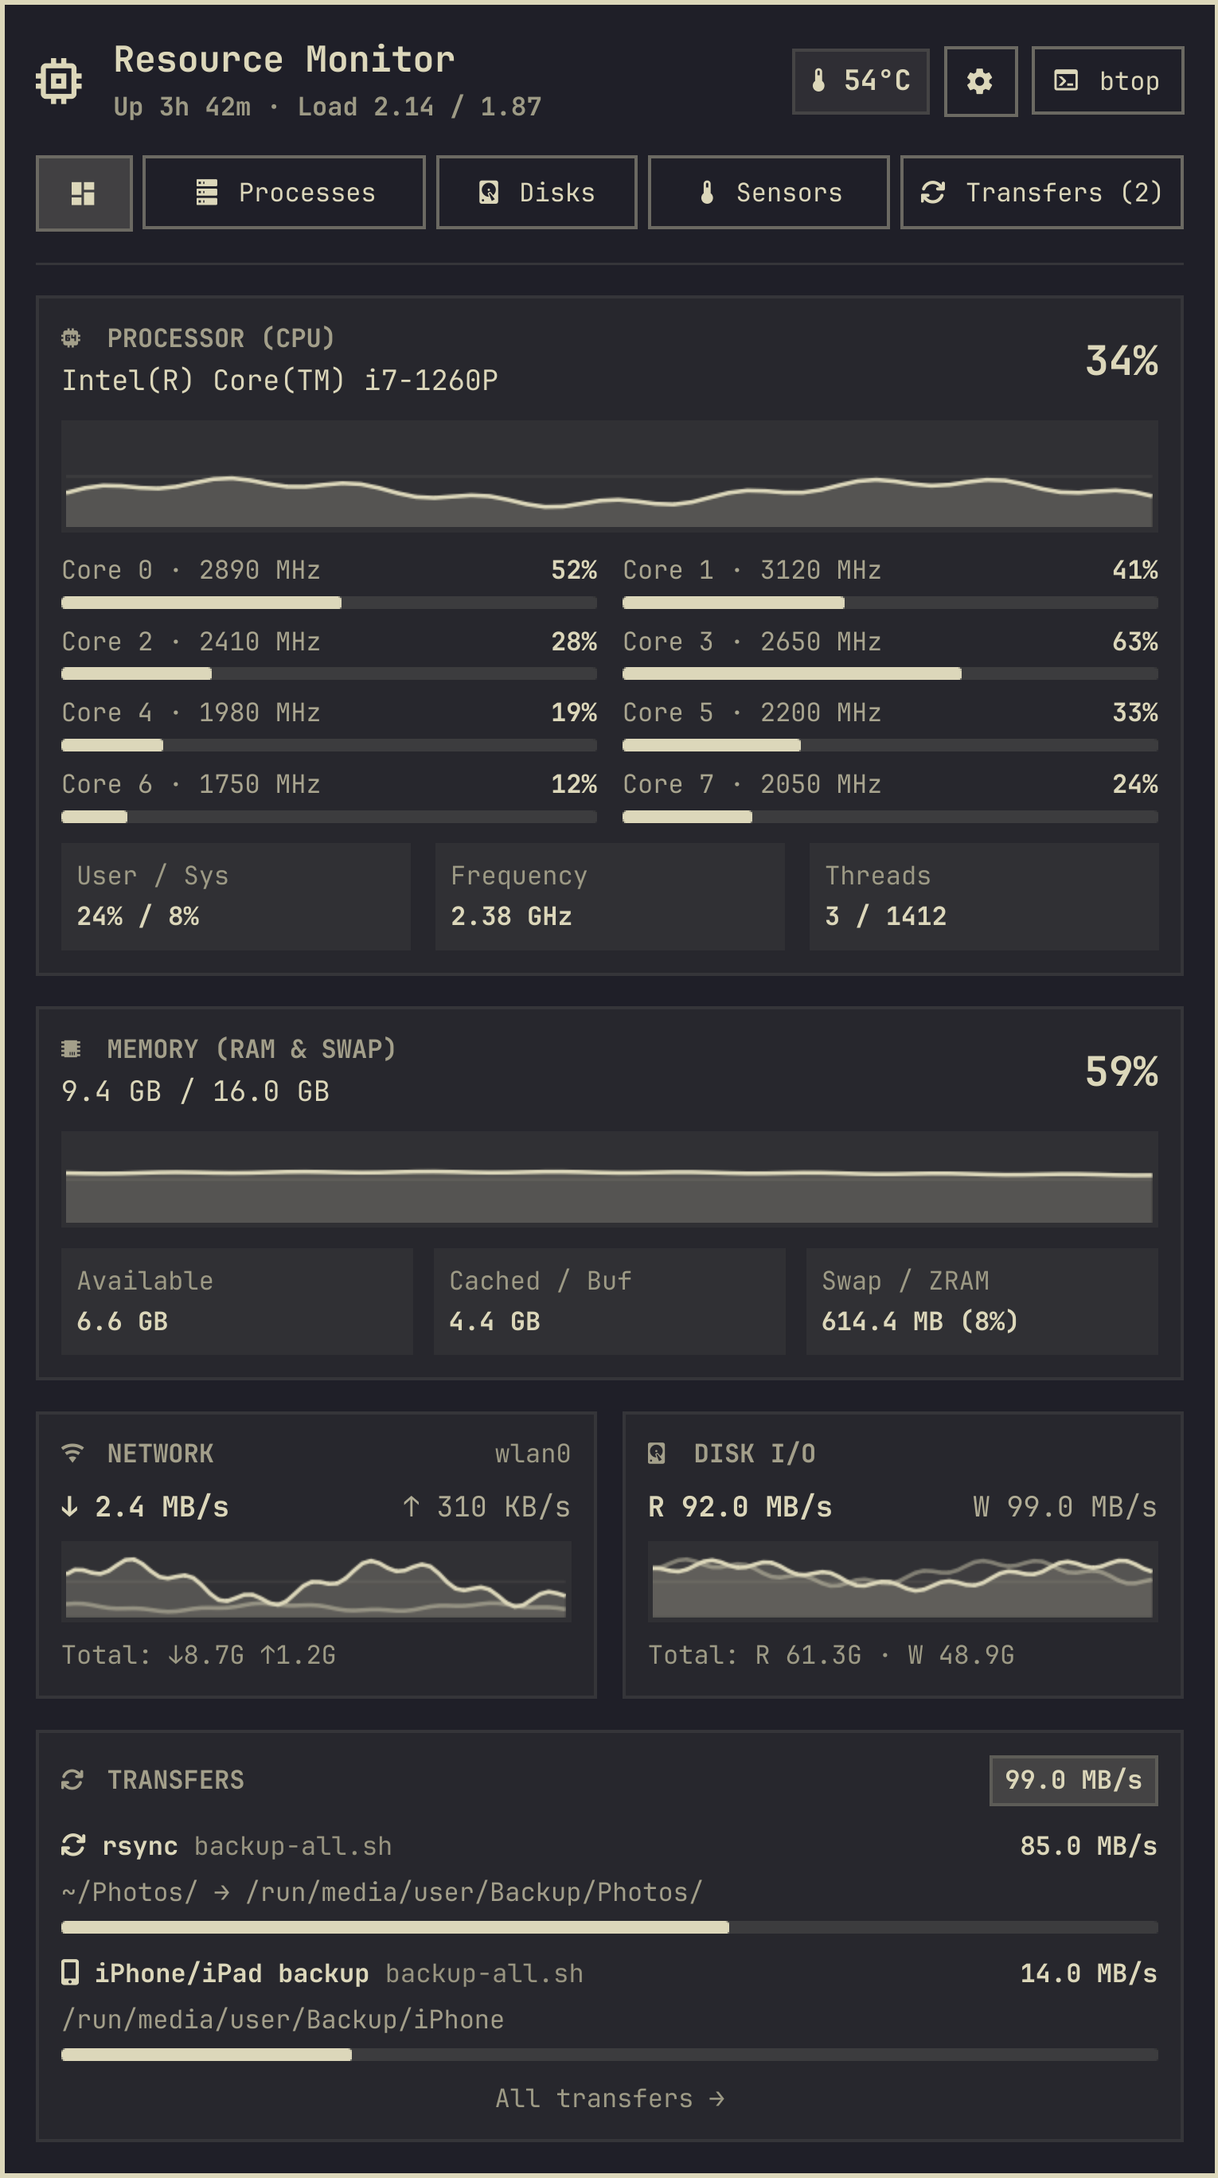
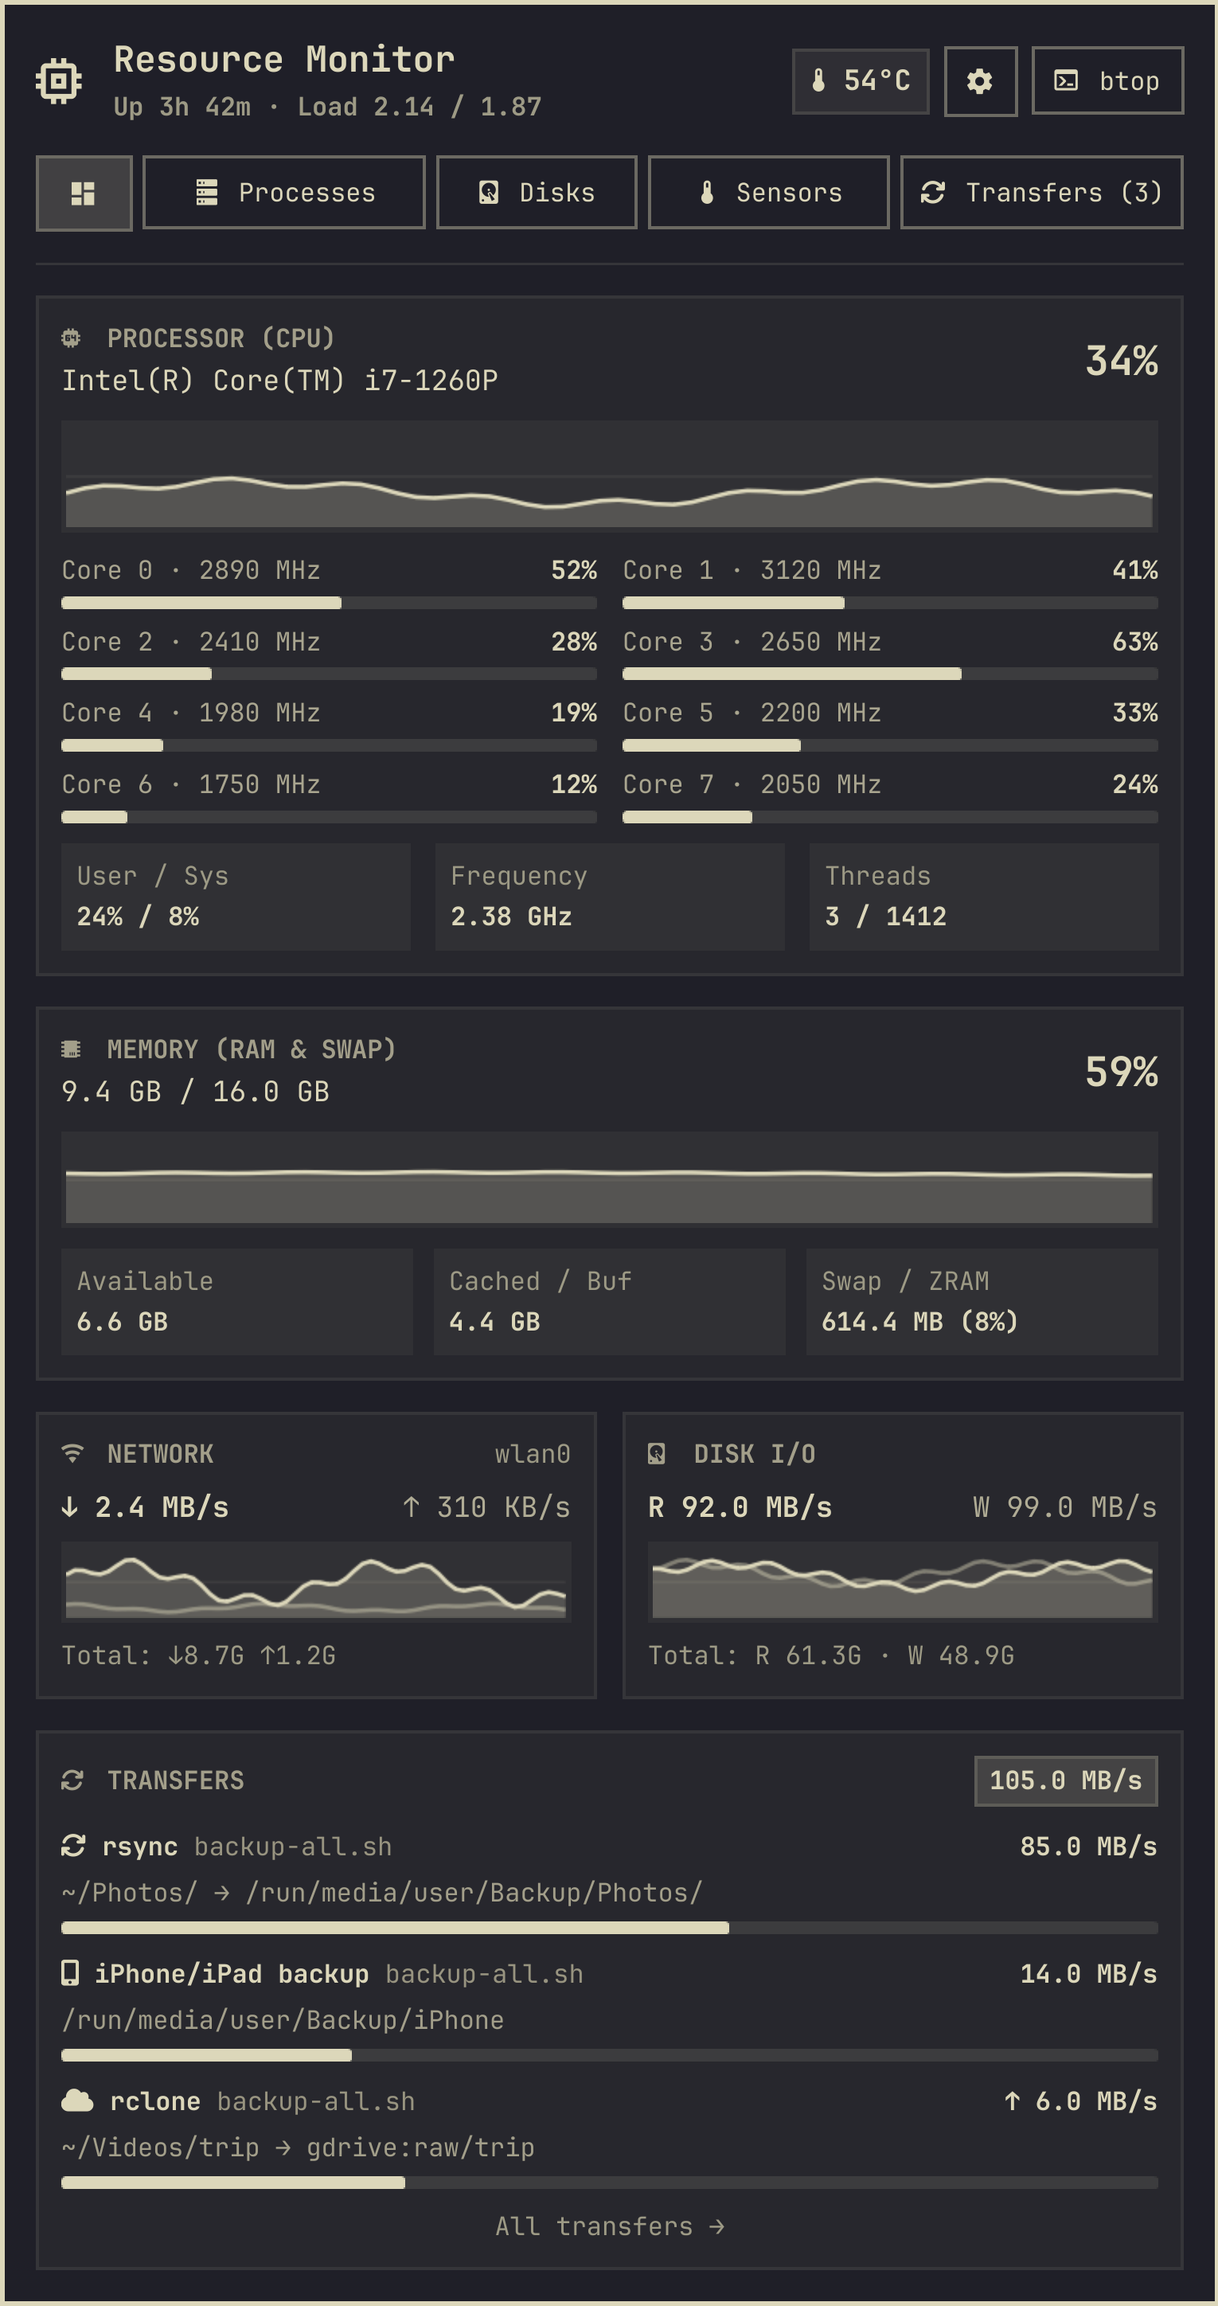
Transfers: show uploads and downloads (rclone to a remote, rsync/scp to a host)
- rclone was never listed: the mount/config filter looked for "rc" anywhere in
  the command line, which "rclone" itself contains. Only the command word decides now.
- To or from another machine, progress comes from the local side and speed from
  the socket side (rchar/wchar), so cached files and network-bound uploads count.
- scp and sftp are watched; rclone option values are no longer taken for paths.
- Cards mark the direction with an arrow.

diff --git a/Model.js b/Model.js
@@ -550,6 +550,11 @@ function tildePath(p, home) {
   return s.indexOf(h + "/") === 0 ? "~" + s.substring(h.length) : s
 }
 
+// "↑ " for a transfer leaving this computer, "↓ " for one arriving, "" for local.
+function directionArrow(direction) {
+  return direction === "upload" ? "↑ " : direction === "download" ? "↓ " : ""
+}
+
 // The path of a transfer as the panel shows it: whole when it fits in maxLen.
 function transferPath(p, home, maxLen) {
   return shortenPath(tildePath(p, home), maxLen || 38)
@@ -573,7 +578,7 @@ if (typeof module !== "undefined" && module.exports) {
     parseDetailsOutput: parseDetailsOutput, formatBytes: formatBytes, formatShortBytes: formatShortBytes,
     formatRate: formatRate, formatShortRate: formatShortRate, formatSpeed: formatSpeed,
     formatDuration: formatDuration, translate: translate, toolIcon: toolIcon, toolDisplayTitle: toolDisplayTitle,
-    formatRecentTransfer: formatRecentTransfer, diskOpenPath: diskOpenPath, shortenPath: shortenPath, tildePath: tildePath, transferPath: transferPath,
+    formatRecentTransfer: formatRecentTransfer, diskOpenPath: diskOpenPath, shortenPath: shortenPath, tildePath: tildePath, transferPath: transferPath, directionArrow: directionArrow,
     parseJsonSafely: parseJsonSafely
   }
 }

diff --git a/dev/tests/Model.test.js b/dev/tests/Model.test.js
@@ -35,7 +35,7 @@ const {
   MAX_HISTORY, neutralizeMarkup, clamp, pushHistory, parseProcStat, parseProcMeminfo,
   parseProcLoadavg, parseProcUptime, parseProcNetDev, parseProcDiskstats, parseDetailsOutput,
   formatBytes, formatShortBytes, formatRate, formatShortRate, formatSpeed, formatDuration,
-  toolIcon, toolDisplayTitle, formatRecentTransfer, diskOpenPath, shortenPath, tildePath, transferPath, parseJsonSafely
+  toolIcon, toolDisplayTitle, formatRecentTransfer, diskOpenPath, shortenPath, tildePath, transferPath, directionArrow, parseJsonSafely
 } = mod.exports
 
 describe('gusthx.resources Model.js', () => {
@@ -489,6 +489,12 @@ MemFree:        4096000 kB`
       expect(tildePath('/home/meow/x', '/home/me')).toBe('/home/meow/x')
       expect(tildePath('/mnt/x', '')).toBe('/mnt/x')
       expect(tildePath('gdrive:b/', '/home/me')).toBe('gdrive:b/')
+    })
+    it('marks uploads and downloads', () => {
+      expect(directionArrow('upload')).toBe('↑ ')
+      expect(directionArrow('download')).toBe('↓ ')
+      expect(directionArrow('')).toBe('')
+      expect(directionArrow(undefined)).toBe('')
     })
     it('shortens after replacing the home folder', () => {
       expect(transferPath('/home/me/a.tar', '/home/me', 10)).toBe('~/a.tar')

diff --git a/ResourcesView.qml b/ResourcesView.qml
@@ -745,7 +745,7 @@ PanelKeyCatcher {
 
 
                 PlainText {
-                  text: Model.formatSpeed(modelData.active_speed)
+                  text: Model.directionArrow(modelData.direction) + Model.formatSpeed(modelData.active_speed)
                   color: monitor.accentColor
                   font.bold: true
                   font.pixelSize: Style.font.caption
@@ -1522,7 +1522,7 @@ PanelKeyCatcher {
 
               // Live speed badge
               PlainText {
-                text: Model.formatSpeed(modelData.active_speed)
+                text: Model.directionArrow(modelData.direction) + Model.formatSpeed(modelData.active_speed)
                 color: monitor.accentColor
                 font.pixelSize: Style.font.subtitle
                 font.bold: true

diff --git a/collect-transfers.py b/collect-transfers.py
@@ -15,7 +15,7 @@ import subprocess
 
 TRANSFER_COMMANDS = {
     "rsync", "rclone", "cp", "mv", "dd", "pv", "curl", "wget", "aria2c", "yt-dlp",
-    "git", "idevicebackup2", "restic", "borg", "btrfs", "pacman", "yay", "paru", "tar", "zstd", "ffmpeg"
+    "git", "scp", "sftp", "idevicebackup2", "restic", "borg", "btrfs", "pacman", "yay", "paru", "tar", "zstd", "ffmpeg"
 }
 
 # Tools whose folder sources are sized with du to get an overall total.
@@ -239,6 +239,62 @@ def get_active_file_info(pids, source_hint="", dest_hint=""):
     best["name"] = display_name
     return best
 
+# The rclone commands that move or read file contents.
+RCLONE_TRANSFER_COMMANDS = {"copy", "copyto", "sync", "move", "moveto", "bisync", "copyurl",
+                            "check", "cryptcheck", "rcat", "cat"}
+
+
+def rclone_subcommand(args):
+    """The command of an rclone command line: its first word that is not an option."""
+    for a in args[1:]:
+        if a and not a.startswith("-"):
+            return a
+    return ""
+
+
+SCP_OPTS_WITH_ARG = {"-P", "-i", "-o", "-F", "-c", "-l", "-J", "-S", "-D", "-X"}
+
+
+def transfer_direction(tool, src, dst):
+    """"upload" when the destination is on another machine or service, "download"
+    when the source is, "" for a transfer inside this computer."""
+    dst_remote = bool(dst) and not is_local_path(dst, tool)
+    src_remote = bool(src) and not is_local_path(src, tool)
+    if dst_remote and not src_remote:
+        return "upload"
+    if src_remote:
+        return "download"
+    return ""
+
+
+def get_tree_char_io(pids):
+    """Bytes read and written through any file descriptor (rchar/wchar), sockets
+    and cached files included. See network_progress() for what each one means."""
+    rc = wc = 0
+    for p in pids:
+        try:
+            with open(f"/proc/{p}/io", "r") as f:
+                for line in f:
+                    if line.startswith("rchar:"):
+                        rc += int(line.split()[1])
+                    elif line.startswith("wchar:"):
+                        wc += int(line.split()[1])
+        except (OSError, ValueError):
+            pass
+    return rc, wc
+
+
+def network_progress(direction, rb, wb, rchar, wchar):
+    """(bytes done, network byte counter) of a transfer to or from another machine.
+    An upload reads the source (rchar) and writes to a socket (wchar); a download
+    reads a socket and writes the file. The local side says how far the transfer
+    is; the socket side says how fast data is really leaving or arriving (tools
+    such as rclone read ahead in big chunks, and may send a chunk again)."""
+    if direction == "upload":
+        return max(rb, rchar), wchar
+    return max(wb, wchar), rchar
+
+
 def is_local_path(path, tool=""):
     """False for URLs and for remotes (rsync `host:dir`, rclone `remote:dir`)."""
     if not path or "://" in path:
@@ -246,7 +302,7 @@ def is_local_path(path, tool=""):
     if path.startswith(("/", "./", "../", "~")):
         return True
     base = tool.split()[0] if tool else ""
-    if base in ("rsync", "rclone", "git") and ":" in path.split("/", 1)[0]:
+    if base in ("rsync", "rclone", "git", "scp", "sftp") and ":" in path.split("/", 1)[0]:
         return False
     return True
 
@@ -484,10 +540,36 @@ def _parse_tool_source_destination(args, cwd):
                 dst = a[3:]
         return "dd", src, dst
 
+    elif comm in ("scp", "sftp"):
+        pos_args = []
+        i = 1
+        while i < len(args):
+            if args[i] in SCP_OPTS_WITH_ARG:
+                i += 2
+                continue
+            if not args[i].startswith("-"):
+                pos_args.append(args[i])
+            i += 1
+        if comm == "sftp":
+            return comm, (pos_args[0] if pos_args else ""), cwd
+        return comm, (pos_args[0] if pos_args else ""), (pos_args[-1] if len(pos_args) > 1 else "")
+
     elif comm == "rclone":
         sub = "copy"
         pos_args = []
+        opts_with_arg = {"--transfers", "--checkers", "--drive-chunk-size", "--stats", "--bwlimit",
+                         "--config", "--include", "--exclude", "--filter", "--include-from",
+                         "--exclude-from", "--files-from", "--log-file", "--log-level",
+                         "--max-size", "--min-size", "--max-age", "--min-age", "--tpslimit",
+                         "--backup-dir", "--retries", "--buffer-size", "--max-transfer"}
+        skip = False
         for a in args[1:]:
+            if skip:
+                skip = False
+                continue
+            if a in opts_with_arg:
+                skip = True
+                continue
             if not a.startswith("-") and not pos_args:
                 sub = a
                 pos_args.append(a)
@@ -897,8 +979,8 @@ def collect_all_transfers():
                     cmd_raw = cf.read().decode("utf-8", "replace")
                     if "checkup-db" in cmd_raw or "checkupdates" in cmd_raw or " -Q" in cmd_raw:
                         continue
-                    if comm == "rclone" and any(sub in cmd_raw for sub in ("mount", "config", "version", "rc", "serve")):
-                        continue
+                    if comm == "rclone" and rclone_subcommand(cmd_raw.split("\x00")) not in RCLONE_TRANSFER_COMMANDS:
+                        continue  # mount, config, serve, ls...: not a transfer
 
                 with open(f"/proc/{pid}/stat", "r") as f:
                     parts = f.read().split()
@@ -916,6 +998,7 @@ def collect_all_transfers():
     transfers = []
     live_size_keys = set()
     total_agg_read_speed = 0.0
+    total_agg_speed = 0.0
     total_agg_write_speed = 0.0
     active_pid_set = set(str(p) for p in root_pids)
 
@@ -985,13 +1068,28 @@ def collect_all_transfers():
                 read_speed = 0.7 * read_speed + 0.3 * prev_rs
                 write_speed = 0.7 * write_speed + 0.3 * prev_ws
 
+            # To or from another machine the disk counters miss one side (and
+            # cached files entirely): count what went through the process.
+            direction = transfer_direction(tool_name, src_path, dst_path)
+            moved = max(rb, wb)
+            net_bytes = 0
+            through_speed = 0.0
+            if direction:
+                rchar, wchar = get_tree_char_io(tree_pids)
+                moved, net_bytes = network_progress(direction, rb, wb, rchar, wchar)
+                if prev and "net_bytes" in prev:
+                    through_speed = max(0.0, (net_bytes - prev["net_bytes"]) / dt)
+                    through_speed = 0.7 * through_speed + 0.3 * prev.get("through_speed", 0.0)
+
             if state == "paused":
                 read_speed = 0.0
                 write_speed = 0.0
                 active_speed = 0.0
             else:
-                active_speed = max(read_speed, write_speed)
+                # Nothing on the wire (e.g. `rclone check` hashing local files): disk speed.
+                active_speed = through_speed if through_speed > 1024 else max(read_speed, write_speed)
 
+            total_agg_speed += active_speed
             total_agg_read_speed += read_speed
             total_agg_write_speed += write_speed
 
@@ -1074,7 +1172,7 @@ def collect_all_transfers():
                 pass
 
             if overall_total_bytes > 0:
-                transferred_bytes = max(rb, wb)
+                transferred_bytes = moved
                 overall_pct = max(0.0, min(100.0, round((transferred_bytes / overall_total_bytes * 100), 1)))
                 rem_overall = max(0, overall_total_bytes - transferred_bytes)
                 if rem_overall > 0:
@@ -1096,13 +1194,13 @@ def collect_all_transfers():
                 category = "git"
             elif tool_name in ("pacman", "yay", "paru"):
                 category = "system"
-            elif "rclone" in tool_name:
+            elif "rclone" in tool_name or tool_name in ("scp", "sftp"):
                 category = "cloud"
 
             if tool_name in ("curl", "wget"):
                 has_dest_file = bool(dst_path and dst_path != cwd)
                 # If it's a brief API query to stdout with no file, ignore it
-                if not has_dest_file and max(rb, wb) < 256 * 1024 and elapsed_sec < 4 and active_speed < 1024:
+                if not has_dest_file and moved < 256 * 1024 and elapsed_sec < 4 and active_speed < 1024:
                     continue
 
             item_data = {
@@ -1117,7 +1215,8 @@ def collect_all_transfers():
                 "cwd": cwd,
                 "read_bytes": rb,
                 "write_bytes": wb,
-                "total_bytes": max(rb, wb),
+                "total_bytes": moved,
+                "direction": direction,
                 "read_speed": round(read_speed),
                 "write_speed": round(write_speed),
                 "active_speed": round(active_speed),
@@ -1144,7 +1243,9 @@ def collect_all_transfers():
                 "wb": wb,
                 "read_speed": read_speed,
                 "write_speed": write_speed,
-                "total_bytes": max(rb, wb),
+                "through_speed": through_speed,
+                "net_bytes": net_bytes,
+                "total_bytes": moved,
                 "elapsed_sec": elapsed_sec,
                 "elapsed_str": format_eta(elapsed_sec),
                 "tool": tool_name,
@@ -1173,7 +1274,7 @@ def collect_all_transfers():
         "count": len(transfers),
         "agg_read_speed": round(total_agg_read_speed),
         "agg_write_speed": round(total_agg_write_speed),
-        "agg_speed": round(max(total_agg_read_speed, total_agg_write_speed)),
+        "agg_speed": round(total_agg_speed),
         "transfers": transfers,
         "recent_completed": recent_completed[:5]
     }

diff --git a/dev/tests/test_collect_transfers.py b/dev/tests/test_collect_transfers.py
@@ -132,6 +132,45 @@ class Paths(unittest.TestCase):
         self.assertEqual(ct.parse_command_details(["zstd", "-19", "big.bin"], "/w"), ("zstd", "/w/big.bin", ""))
 
 
+class Remote(unittest.TestCase):
+    def test_rclone_commands(self):
+        self.assertEqual(ct.rclone_subcommand(["rclone", "-q", "copy", "a", "gdrive:b"]), "copy")
+        # "rclone" contains "rc": only the command word decides.
+        self.assertIn(ct.rclone_subcommand(["rclone", "copy", "a", "gdrive:b"]), ct.RCLONE_TRANSFER_COMMANDS)
+        for sub in ("mount", "config", "rc", "rcd", "serve", "lsf", "version"):
+            self.assertNotIn(ct.rclone_subcommand(["/usr/bin/rclone", sub, "gdrive:"]), ct.RCLONE_TRANSFER_COMMANDS)
+
+    def test_rclone_option_values_are_not_paths(self):
+        line = "rclone copy --transfers 4 --drive-chunk-size 64M --stats 60s -q dji gdrive:raw/dji"
+        self.assertEqual(ct.parse_command_details(line.split(), "/data"),
+                         ("rclone copy", "/data/dji", "gdrive:raw/dji"))
+
+    def test_scp(self):
+        self.assertEqual(ct.parse_command_details("scp -P 2222 -r site host:/var/www".split(), "/w"),
+                         ("scp", "/w/site", "host:/var/www"))
+        self.assertEqual(ct.parse_command_details("scp host:big.iso .".split(), "/w"),
+                         ("scp", "host:big.iso", "/w"))
+
+    def test_direction(self):
+        self.assertEqual(ct.transfer_direction("rclone copy", "/d/x", "gdrive:b/"), "upload")
+        self.assertEqual(ct.transfer_direction("rsync", "host:a/", "/b/"), "download")
+        self.assertEqual(ct.transfer_direction("curl", "https://e.org/f", "/dl/f"), "download")
+        self.assertEqual(ct.transfer_direction("git push", "origin", "main"), "")
+        self.assertEqual(ct.transfer_direction("cp", "/a", "/b"), "")
+        self.assertEqual(ct.transfer_direction("idevicebackup2 backup", "", "/b"), "")
+
+    def test_progress_from_the_local_side_and_speed_from_the_socket(self):
+        # upload: 300 read from the source, 120 sent so far
+        self.assertEqual(ct.network_progress("upload", 200, 0, 300, 120), (300, 120))
+        # download: 500 received, 480 already written to the file
+        self.assertEqual(ct.network_progress("download", 0, 400, 500, 480), (480, 500))
+
+    def test_what_went_through_counts_sockets(self):
+        rc, wc = ct.get_tree_char_io([os.getpid()])
+        self.assertGreater(rc, 0)
+        self.assertEqual(ct.get_tree_char_io([2 ** 31 - 1]), (0, 0))
+
+
 class Tar(unittest.TestCase):
     def parse(self, line, cwd="/data"):
         return ct.parse_command_details(line.split(), cwd)

diff --git a/README.md b/README.md
@@ -20,12 +20,14 @@ downloads, iPhone/iPad backups and more) with speed, progress and ETA.
   when `libimobiledevice` is installed (they have no folder to open).
 - **Sensors**: temperatures, fans, battery power, CPU model, kernel, GPU clock, load,
   context switches and uptime.
-- **Transfers**: `rsync`, `rclone`, `cp`, `mv`, `dd`, `pv`, `curl`, `wget`, `aria2c`,
-  `yt-dlp`, `git`, `idevicebackup2`, `restic`, `borg`, `btrfs`, `pacman`/`yay`/`paru`,
+- **Transfers**: `rsync`, `rclone`, `scp`, `sftp`, `cp`, `mv`, `dd`, `pv`, `curl`, `wget`,
+  `aria2c`, `yt-dlp`, `git`, `idevicebackup2`, `restic`, `borg`, `btrfs`, `pacman`/`yay`/`paru`,
   `tar`, `zstd` and `ffmpeg` started by you. Each shows speed, the file being copied,
   overall progress and ETA when the total size is known, and can be paused, resumed,
   cancelled, opened or copied as a command. A notification tells you when a long transfer
-  finishes. Paths are shown in full (relative ones resolved against the command's working
+  finishes. Transfers to or from another machine or a cloud remote (`rclone copy dir gdrive:x`,
+  `rsync dir host:x`, `scp`) are included, marked ↑ or ↓, with the speed measured on the
+  network side. Paths are shown in full (relative ones resolved against the command's working
   directory), a folder's total size is worked out in the background with `du`, and a card
   at the top adds everything up. A transfer started by a script (`bash backup.sh`, a
   Python script, `make`) is shown as a step of that **batch**, with the script's path, how
